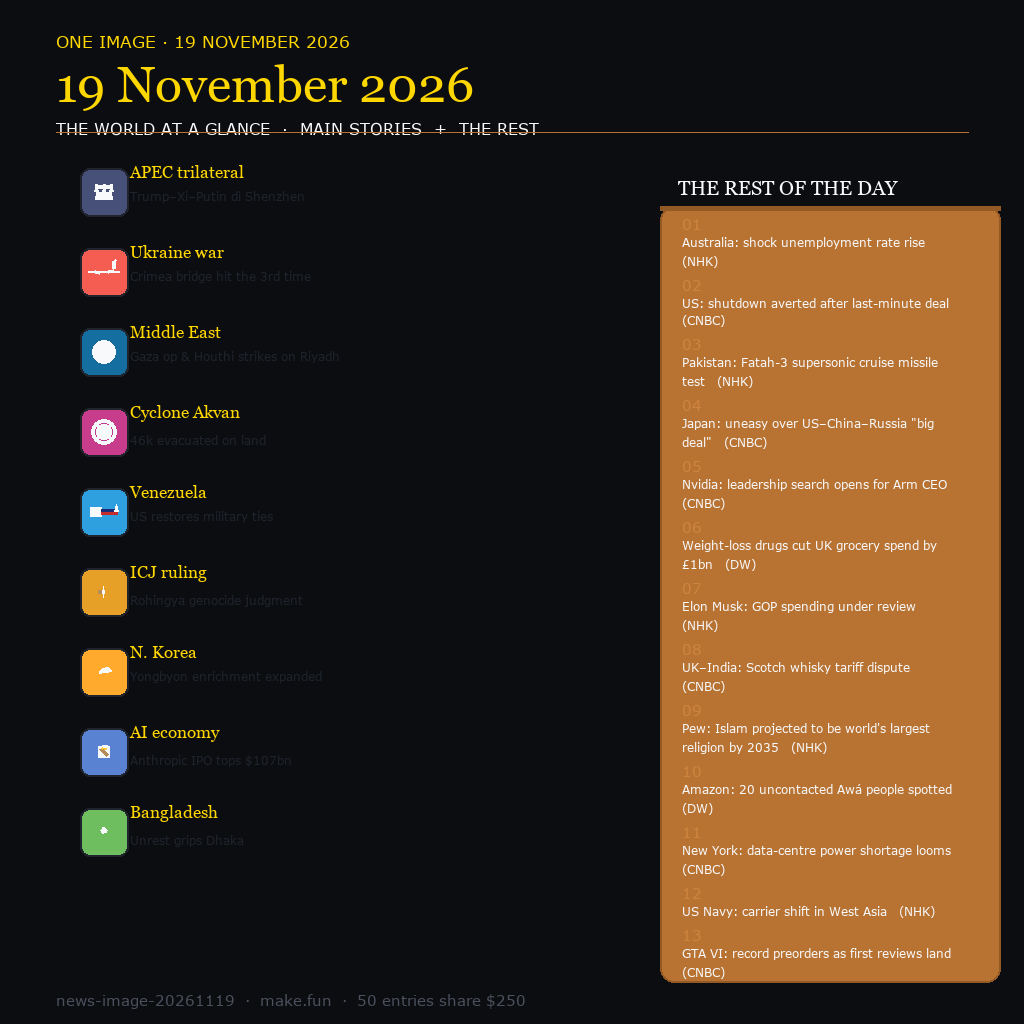
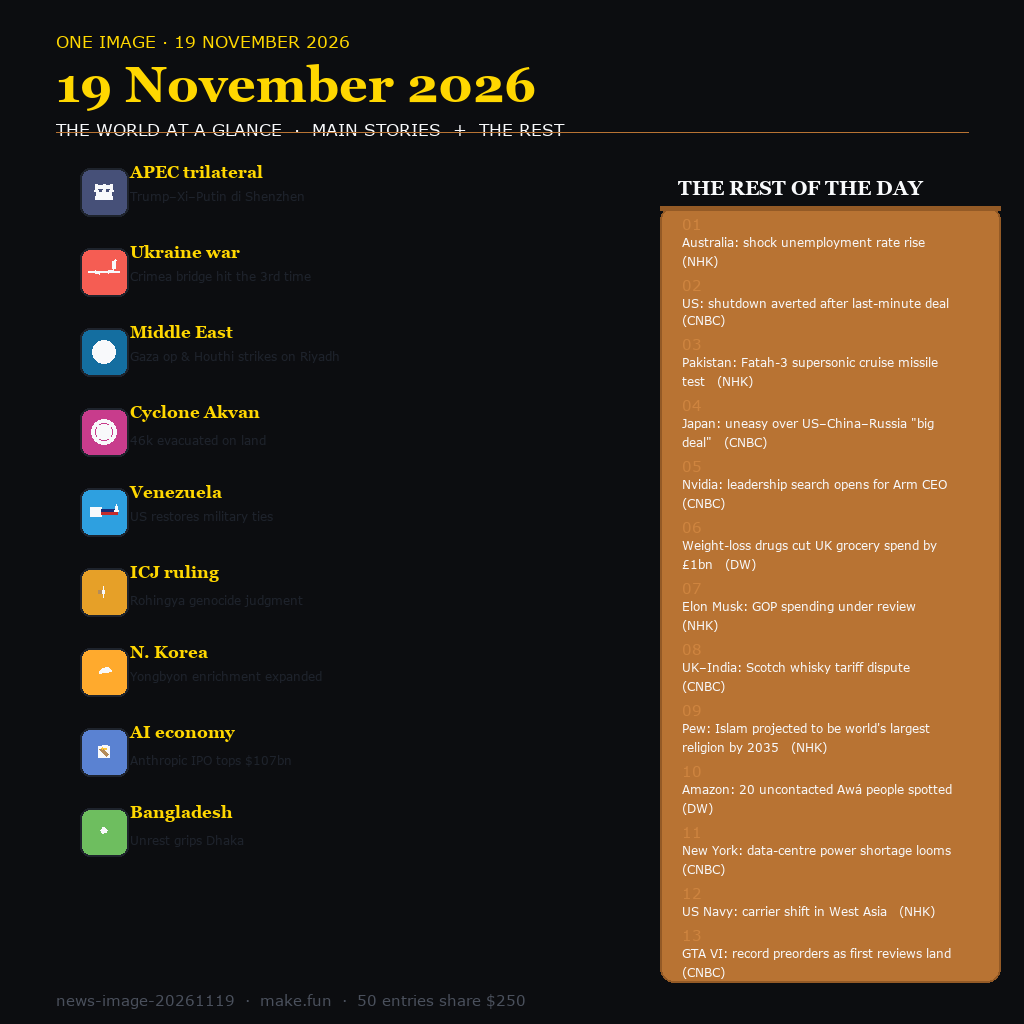
Final revision: bold golden main-news titles; black bg; copper rest-of-day panel

diff --git a/README.md b/README.md
@@ -33,7 +33,7 @@ identify out/entry.png    # 1024x1024
 ## Contents
 
 - `main.ts` — entry program (Node 22, stdlib only, no network)
-- `entry.png` — the day's news summary image (1024×1024, 101 KB). Black background; 9 main news stacked vertically with a rectangular icon and bold golden title beside each; the other stories listed in a copper "THE REST OF THE DAY" panel.
+- `entry.png` — the day's news summary image (1024×1024, 103 KB). Black background; 9 main news stacked vertically with a rectangular icon and bold golden title beside each; the other stories listed in a copper "THE REST OF THE DAY" panel.
 - `README.md` — this file
 - `.makefun/owner.json` — wallet claim file
 
